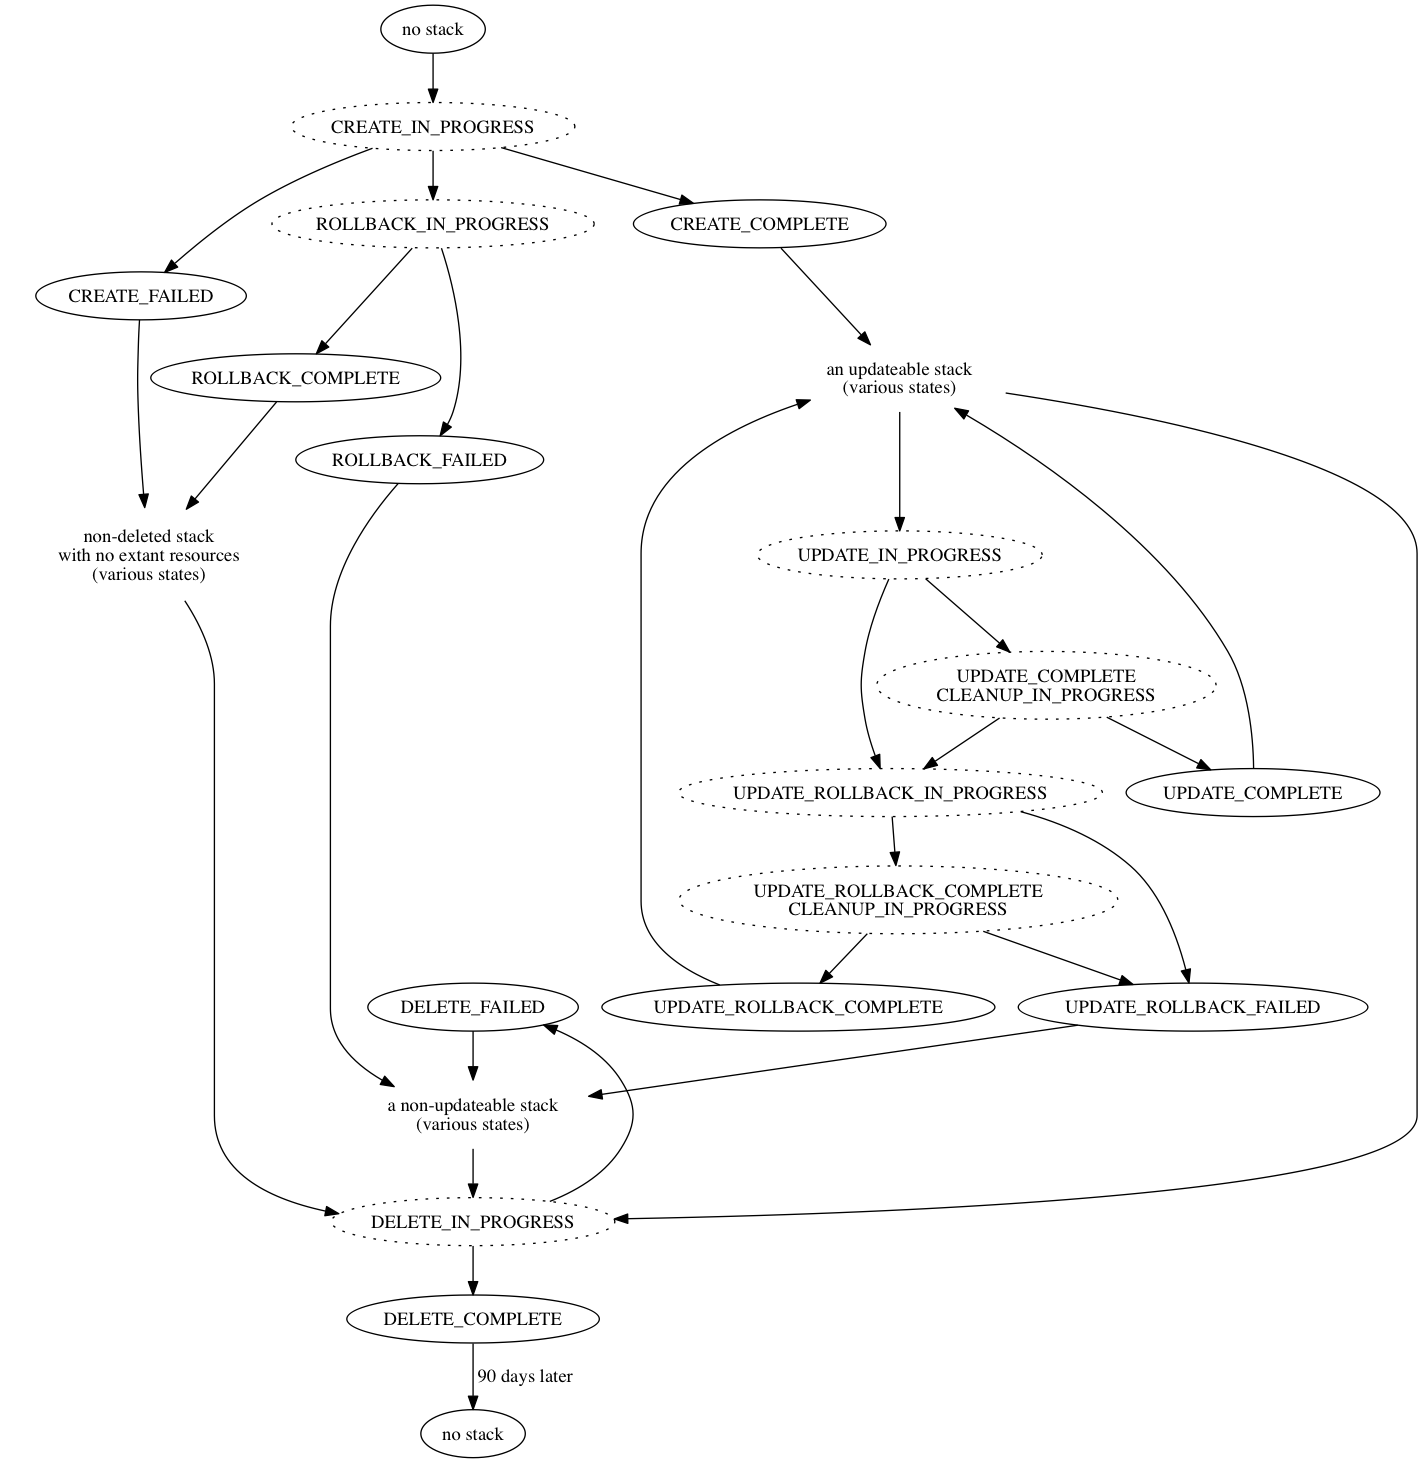
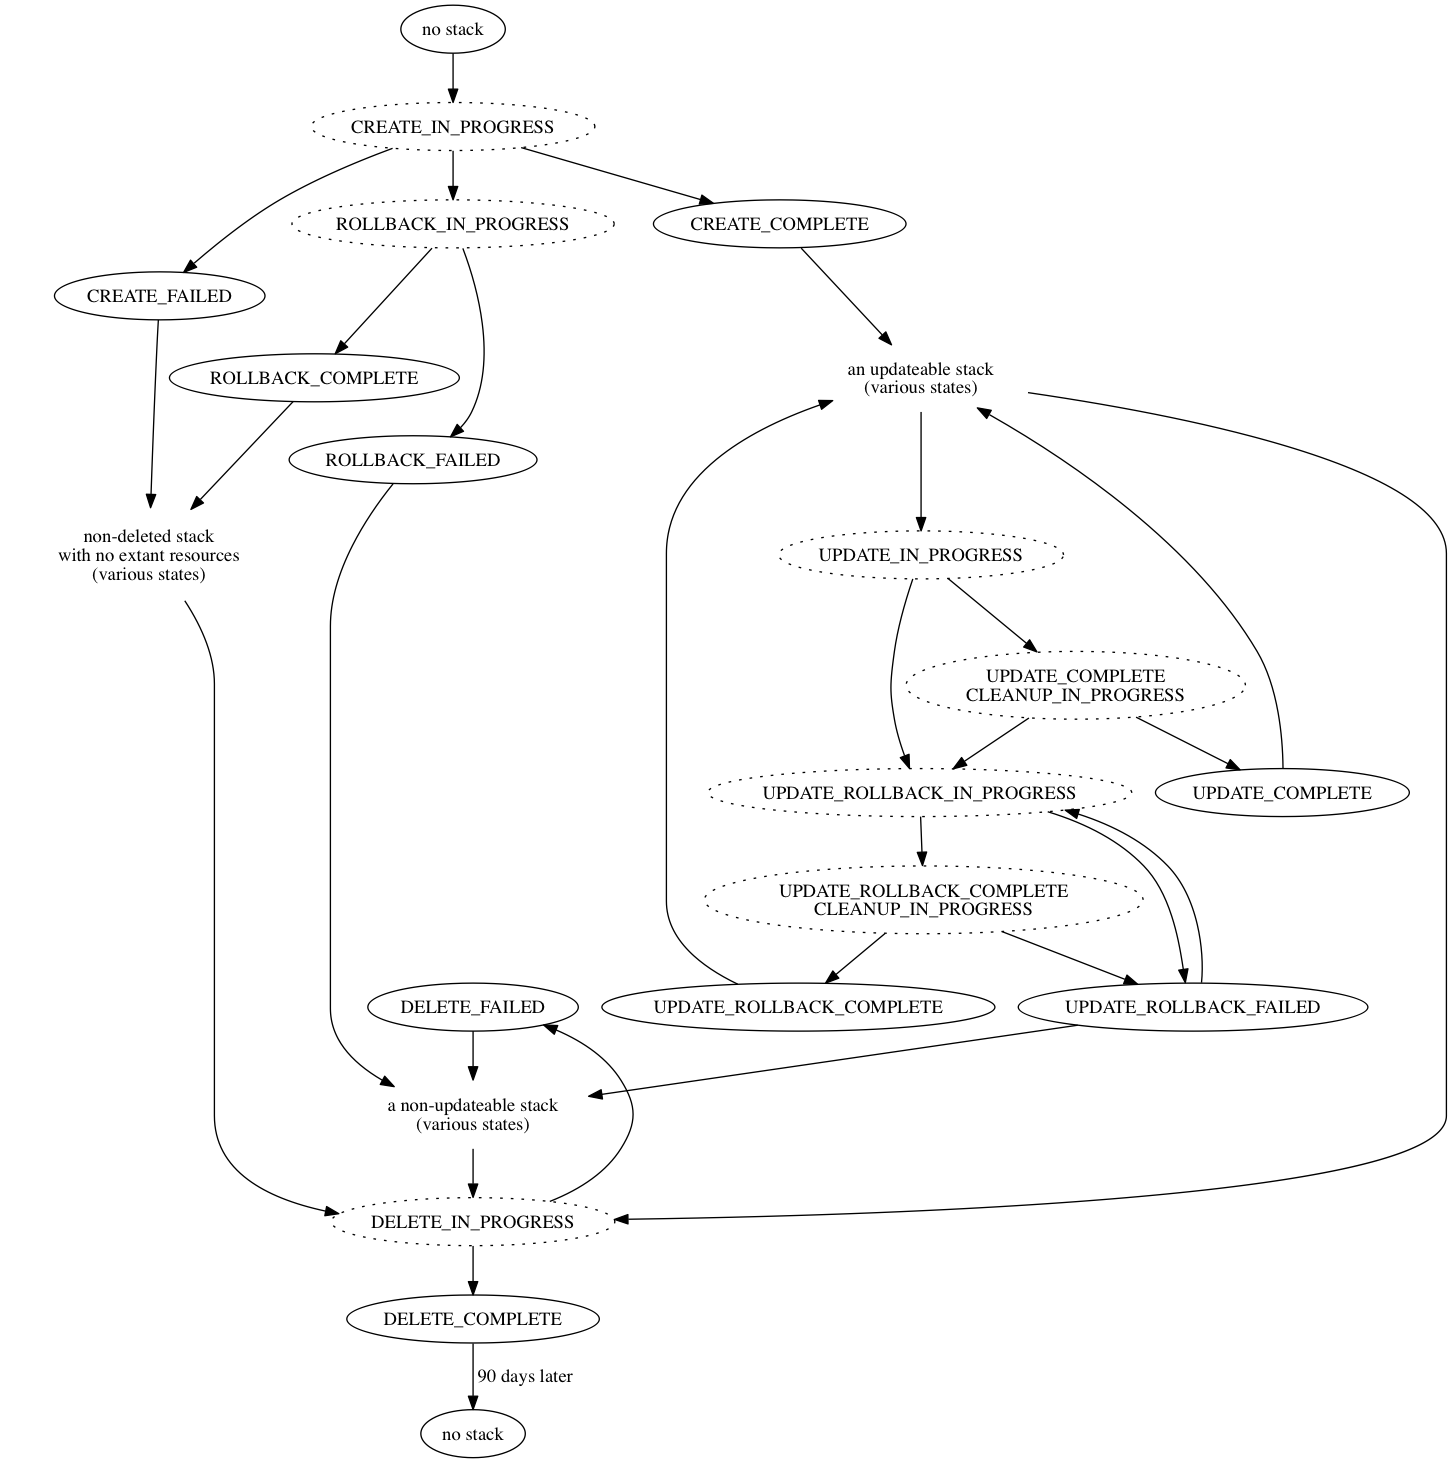
UPDATE_ROLLBACK_FAILED – other options are available

diff --git a/README.md b/README.md
@@ -146,6 +146,12 @@ rollback too might involve deletes, updates, and creates:
 
 ![(diagram)](update-stack.png)
 
+If a stack reaches the `UPDATE_ROLLBACK_FAILED` state, the options are to
+attempt deletion (`DELETE_IN_PROGRESS`), re-attempt rollback
+(`UPDATE_ROLLBACK_IN_PROGRESS`), or to contact AWS support.  See
+[the AWS blog post on "continue update rollback"](https://aws.amazon.com/blogs/devops/continue-rolling-back-an-update-for-aws-cloudformation-stacks-in-the-update_rollback_failed-state/)
+for more information.
+
 DeleteStack
 -----------
 
